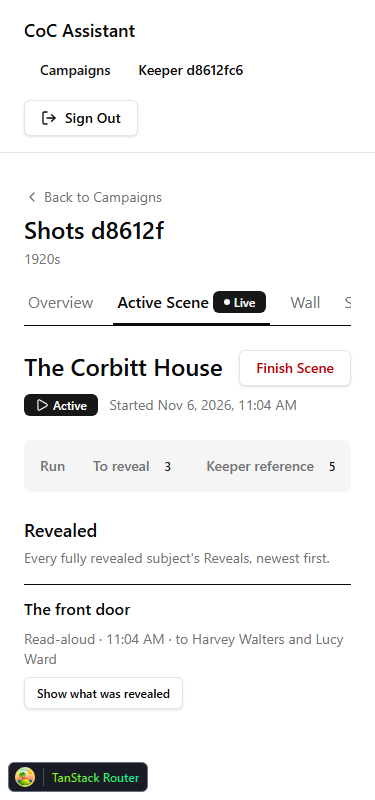
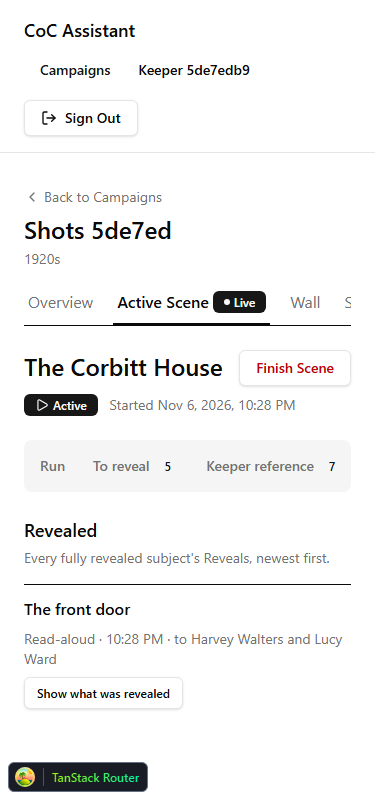
test(e2e): update reveals and active-scene expectations for Items (PBI-SPL-003 B5)

diff --git a/e2e/tests/active-scene.spec.ts b/e2e/tests/active-scene.spec.ts
@@ -88,15 +88,17 @@ test.describe('Starting and finishing a Scene', () => {
 
       await test.step('SPL-UX-41: the sub-navigation shows each tab with its count, and Run is current', async () => {
         await expect(page.getByRole('link', { name: 'Run', exact: true })).toHaveAttribute('aria-current', 'page')
-        await expect(page.getByRole('link', { name: 'To reveal, 4' })).toBeVisible()
-        await expect(page.getByRole('link', { name: 'Keeper reference, 5' })).toBeVisible()
+        // 2 Player-facing Handouts, 2 Non-Player Entities, the diary Item, and its Player-facing Handout (ux 22.1).
+        await expect(page.getByRole('link', { name: 'To reveal, 6' })).toBeVisible()
+        // 3 Keeper-facing Handouts, 2 Non-Player Entities, the diary Item, and its Keeper-facing Handout (ux 22.2).
+        await expect(page.getByRole('link', { name: 'Keeper reference, 7' })).toBeVisible()
         await expect(page.getByRole('link', { name: 'Revealed, 0' })).toBeVisible()
       })
 
       await test.step('SPL-UX-20, SPL-UX-42: To reveal lists the Player-facing Handouts and Non-Player Entities with "Reveal..."', async () => {
-        await page.getByRole('link', { name: 'To reveal, 4' }).click()
+        await page.getByRole('link', { name: 'To reveal, 6' }).click()
         await expect(page).toHaveURL(`/campaigns/${prepared.campaignId}/active-scene/to-reveal`)
-        await expect(page.getByRole('link', { name: 'To reveal, 4' })).toHaveAttribute('aria-current', 'page')
+        await expect(page.getByRole('link', { name: 'To reveal, 6' })).toHaveAttribute('aria-current', 'page')
         const handouts = page.getByRole('region', { name: 'Handouts' })
         await expect(handouts.getByRole('heading', { level: 4 })).toHaveText([PREPARED.handouts[0].title, PREPARED.handouts[2].title])
         await expect(handouts.getByRole('button', { name: /^Reveal / })).toHaveCount(2)
@@ -108,7 +110,7 @@ test.describe('Starting and finishing a Scene', () => {
       })
 
       await test.step('SPL-UX-45: Keeper reference lists the Keeper-facing Handouts and every Non-Player Entity with no "Reveal..."', async () => {
-        await page.getByRole('link', { name: 'Keeper reference, 5' }).click()
+        await page.getByRole('link', { name: 'Keeper reference, 7' }).click()
         await expect(page).toHaveURL(`/campaigns/${prepared.campaignId}/active-scene/reference`)
         const handouts = page.getByRole('region', { name: 'Handouts' })
         await expect(handouts.getByRole('heading', { level: 4 })).toHaveText([PREPARED.handouts[1].title, PREPARED.handouts[3].title, PREPARED.handouts[4].title])
@@ -118,7 +120,7 @@ test.describe('Starting and finishing a Scene', () => {
       })
 
       await test.step('SPL-UX-25 as amended: a Handout title opens its content in the side panel', async () => {
-        await page.getByRole('link', { name: 'Keeper reference, 5' }).click()
+        await page.getByRole('link', { name: 'Keeper reference, 7' }).click()
         const handouts = page.getByRole('region', { name: 'Handouts' })
         await handouts.getByRole('button', { name: PREPARED.handouts[1].title, exact: true }).click()
         const panel = page.getByRole('dialog', { name: PREPARED.handouts[1].title })
@@ -353,15 +355,17 @@ test.describe('Starting and finishing a Scene', () => {
         await page.setViewportSize({ width: 1366, height: 800 })
         await page.goto(`/campaigns/${campaignId}/active-scene`)
         await expect(page.getByRole('button', { name: 'Hide Keeper notes' })).toBeVisible()
-        await expect(page.getByRole('link', { name: 'To reveal, 3' })).toBeVisible()
+        // The front door reached everyone, so 5 subjects stay (ux 22.1): the plan, the 2 Non-Player Entities,
+        // the diary Item, and its Player-facing Handout.
+        await expect(page.getByRole('link', { name: 'To reveal, 5' })).toBeVisible()
         await page.screenshot({ path: '../docs/scene-play/screenshots/spl-006-run-1366.png' })
         await page.goto(`/campaigns/${campaignId}/active-scene/to-reveal`)
         await expect(page.getByRole('region', { name: 'Handouts' })).toBeVisible()
-        await expect(page.getByRole('link', { name: 'To reveal, 3' })).toBeVisible()
+        await expect(page.getByRole('link', { name: 'To reveal, 5' })).toBeVisible()
         await page.screenshot({ path: '../docs/scene-play/screenshots/spl-006-to-reveal-1366.png' })
         await page.goto(`/campaigns/${campaignId}/active-scene/reference`)
-        await expect(page.getByText('Only you see these: Keeper-facing Handouts and the profiles behind Non-Player Entities.')).toBeVisible()
-        await expect(page.getByRole('link', { name: 'Keeper reference, 5' })).toBeVisible()
+        await expect(page.getByText("Only you see these: Keeper-facing Handouts, the profiles behind Non-Player Entities, and Items' Keeper notes.")).toBeVisible()
+        await expect(page.getByRole('link', { name: 'Keeper reference, 7' })).toBeVisible()
         await page.screenshot({ path: '../docs/scene-play/screenshots/spl-006-reference-1366.png' })
         await page.goto(`/campaigns/${campaignId}/active-scene/revealed`)
         await expect(page.getByRole('region', { name: 'Revealed', exact: true }).getByRole('heading', { level: 3, name: PREPARED.handouts[0].title })).toBeVisible()
@@ -374,7 +378,7 @@ test.describe('Starting and finishing a Scene', () => {
         for (const tab of ['', '/to-reveal', '/reference', '/revealed']) {
           await page.goto(`/campaigns/${campaignId}/active-scene${tab}`)
           await expect(page.getByRole('heading', { level: 1, name: CORBITT })).toBeVisible()
-          await expect(page.getByRole('link', { name: 'To reveal, 3' })).toBeVisible()
+          await expect(page.getByRole('link', { name: 'To reveal, 5' })).toBeVisible()
           const sideways = await page.evaluate(() => document.documentElement.scrollWidth - document.documentElement.clientWidth)
           expect(sideways, `no sideways scrolling on ${tab || 'run'}`).toBeLessThanOrEqual(0)
           const file = tab === '' ? 'run' : tab.slice(1)
@@ -394,15 +398,15 @@ test.describe('Starting and finishing a Scene', () => {
     try {
       await page.goto(activePath)
       await expect(page.getByRole('link', { name: 'Run', exact: true })).toHaveAttribute('aria-current', 'page')
-      await page.getByRole('link', { name: 'To reveal, 4' }).click()
+      await page.getByRole('link', { name: 'To reveal, 6' }).click()
       await expect(page).toHaveURL(`${activePath}/to-reveal`)
-      await page.getByRole('link', { name: 'Keeper reference, 5' }).click()
+      await page.getByRole('link', { name: 'Keeper reference, 7' }).click()
       await expect(page).toHaveURL(`${activePath}/reference`)
 
       await test.step('SPL-UX-41: back moves through the visited sub-tabs with the current link marked', async () => {
         await page.goBack()
         await expect(page).toHaveURL(`${activePath}/to-reveal`)
-        await expect(page.getByRole('link', { name: 'To reveal, 4' })).toHaveAttribute('aria-current', 'page')
+        await expect(page.getByRole('link', { name: 'To reveal, 6' })).toHaveAttribute('aria-current', 'page')
         await page.goBack()
         await expect(page).toHaveURL(activePath)
         await expect(page.getByRole('link', { name: 'Run', exact: true })).toHaveAttribute('aria-current', 'page')

diff --git a/e2e/tests/reveals.spec.ts b/e2e/tests/reveals.spec.ts
@@ -125,7 +125,9 @@ test.describe('Revealing to Investigators', () => {
         await expect(dialog).toBeHidden()
         await expect(pageStatus(page)).toHaveText(`${PLAN} revealed to ${HARVEY} and ${LUCY}. Moved to Revealed.`)
         await expect(page.getByRole('region', { name: 'Handouts' }).getByText(PLAN, { exact: true })).toHaveCount(0)
-        await expect(page.getByRole('link', { name: 'To reveal, 3' })).toBeVisible()
+        // The plan is fully revealed, so 5 subjects stay: the partly revealed front door, the 2 Non-Player Entities,
+        // the diary Item, and its Player-facing Handout (specs/scene-play/ux.md section 22.1).
+        await expect(page.getByRole('link', { name: 'To reveal, 5' })).toBeVisible()
         await expect(page.getByRole('link', { name: 'Revealed, 1' })).toBeVisible()
         const lucyArticles = revealedToSection(table.lucy.page, LUCY).getByRole('article')
         await expect(lucyArticles.getByRole('heading', { level: 3 })).toHaveText([PLAN])
@@ -407,7 +409,9 @@ test.describe('Clues', () => {
         await harveyPage.goto(`/campaigns/${campaignId}/investigator/clues`)
         await expect(harveyPage.getByRole('heading', { level: 1, name: `${HARVEY}'s Clues` })).toBeVisible()
         await expect(harveyPage.getByText(`Everything ${HARVEY} received from the Keeper, newest first.`)).toBeVisible()
-        await expect(harveyPage.getByRole('heading', { level: 2 })).toHaveText([PREPARED.secondSceneTitle, PREPARED.firstSceneTitle])
+        // The Clues page renders the Items section above the per-Scene groups, newest Scene first
+        // (specs/scene-play/ux.md sections 15 and 22.7).
+        await expect(harveyPage.getByRole('heading', { level: 2 })).toHaveText([`Items ${HARVEY} holds`, PREPARED.secondSceneTitle, PREPARED.firstSceneTitle])
         const corbitt = harveyPage.getByRole('region', { name: PREPARED.firstSceneTitle, exact: true })
         await expect(corbitt.getByRole('heading', { level: 3 })).toHaveText([PLAN, FRONT_DOOR])
       })

diff --git a/docs/scene-play/issues/03-give-and-take-back-items.design.md b/docs/scene-play/issues/03-give-and-take-back-items.design.md
@@ -391,7 +391,7 @@ New `e2e/tests/items-in-play.spec.ts`, with a 240s timeout as in `active-scene.s
 - **"A Player cannot give an Item"**: an API call as a Player returns 404.
 - **"A held Item cannot be deleted"**: Delete on the Item page shows the held message. This closes the PBI-SP-008 and PBI-SP-006 E2E exception.
 - **"An Item in a played Scene cannot be deleted"**: the PBI-SPL-001 follow-up.
-- **Unchanged:** `reveals.spec.ts` keeps its assertions for SPL-UX-20 to SPL-UX-45. Items only add a group. Checked against SPL-UX-40, SPL-UX-42, SPL-UX-45, and SPL-UX-48.
+- **Updated:** `reveals.spec.ts` and `active-scene.spec.ts` expectations now account for the Items group: To reveal counts the linked Item and its Player-facing Handouts (ux 22.1), Keeper reference counts the Item and its Keeper-facing Handouts with the amended hint (ux 22.2), and the Clues page lists the Items section above the per-Scene groups (ux 22.7). Checked against SPL-UX-40, SPL-UX-42, SPL-UX-45, and SPL-UX-48.
 
 ## ADR
 - **ADR 0029**, "Item holders live on the Item and change through a provider service":
